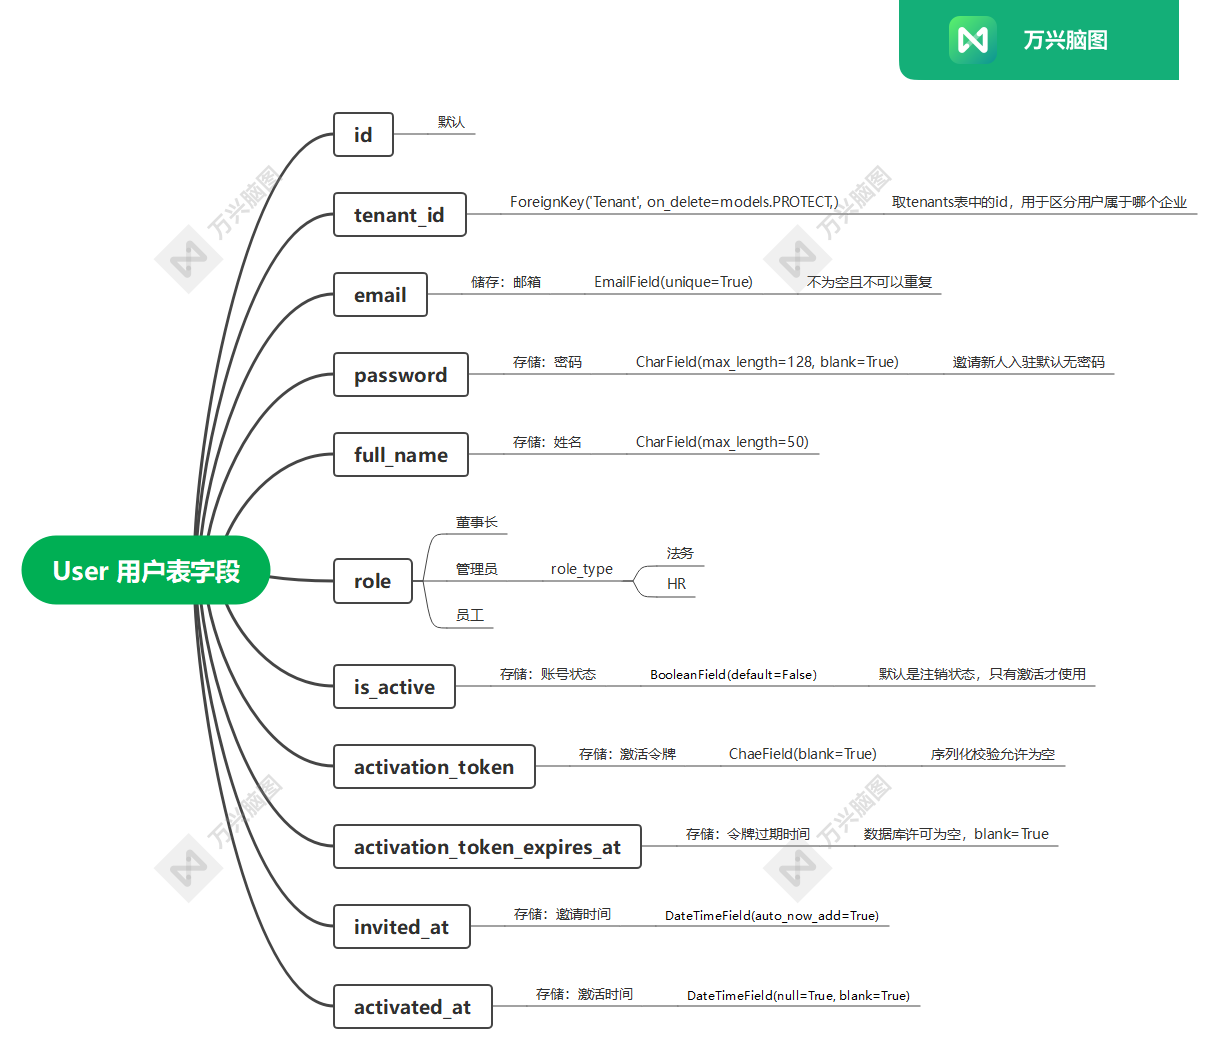
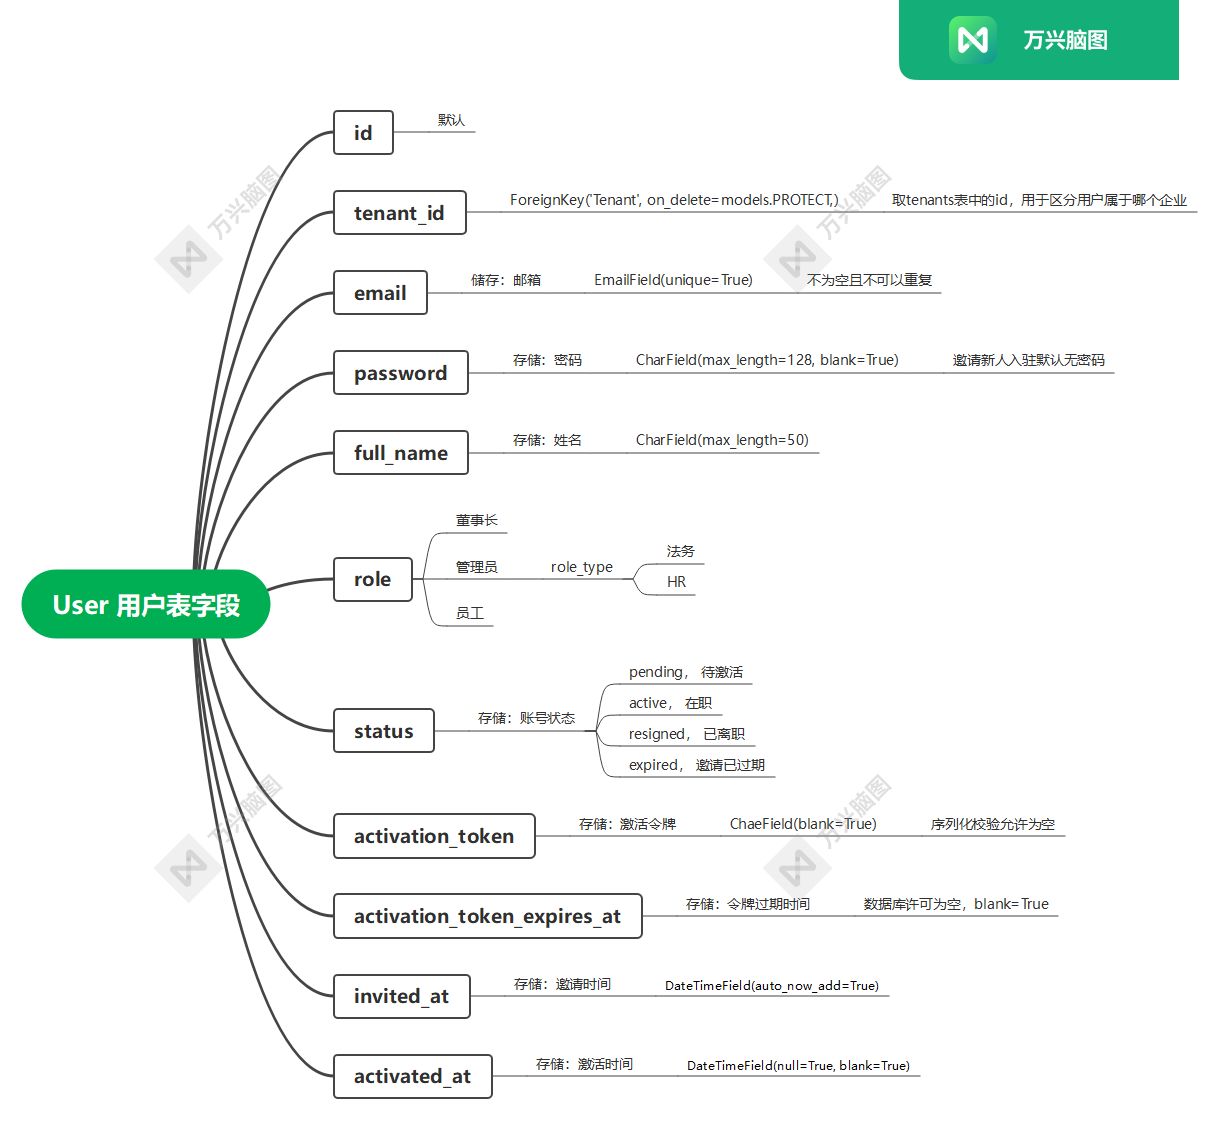
完成注册、登录、邀请接口，User模型状态字段重构

diff --git a/accounts/serializers.py b/accounts/serializers.py
@@ -1,9 +1,14 @@
 # 1. Python内置
 import re
+import secrets
+from datetime import timedelta
 # 2. Django
 from django.contrib.auth.hashers import make_password
 from django.contrib.auth.hashers import check_password
 from django.db import transaction
+from django.utils import timezone
+from django.core.mail import send_mail
+from django.conf import settings
 # 3. DRF
 from rest_framework import serializers
 # 4. 当前app自定义代码
@@ -55,7 +60,7 @@ class RegisterSerializer(serializers.Serializer):
                 full_name=validated_data['full_name'],
                 role='owner',        # 角色：董事
                 role_type='',        # 董事/员工为空
-                is_active=True,      # 注册即激活，不用邮件激活码激活
+                status='active',      # 注册即在职，不用邮件激活码激活
             )
 
             # 4. 注册成功后，删掉 Redis 里的验证码
@@ -81,14 +86,78 @@ class LoginSerializer(serializers.Serializer):
         if not check_password(password, user.password):
             raise serializers.ValidationError('邮箱或密码错误')
 
-        # 3. 校验账号是否可用
-        if not user.is_active:
-            raise serializers.ValidationError('该账号未激活或封禁，请联系公司管理人员')
+        # 3. 校验账号状态是否可用
+        if user.status == 'pending':
+            raise serializers.ValidationError('账号未激活，请查收邀请邮件')
+        if user.status == 'resigned':
+            raise serializers.ValidationError('账号已离职或被禁用')
+        if user.status == 'expired':
+            raise serializers.ValidationError('邀请已过期，请联系管理员重新邀请')
 
-        # 4. 校验租户是否被封禁
-        if user.tenant and not user.tenant.is_active:
-            raise serializers.ValidationError('所属公司已被停用，请联系平台方')
-
-        # 5. 把内存里user对象，放进attrs字典，方便视图取用
+        # 4. 把内存里user对象，放进attrs字典，方便视图取用
         attrs['user'] = user
         return attrs
+
+# 董事邀请员工、HR、法务 序列化器
+class InviteSerializer(serializers.Serializer):
+    email = serializers.EmailField(label='邮箱')
+    full_name = serializers.CharField(max_length=50, label='姓名')
+    role = serializers.ChoiceField(choices=['admin', 'member'], label='系统角色')
+    role_type = serializers.ChoiceField(choices=['hr', 'legal', ''], default='', required=False, label='管理员类型')
+
+    def validate(self, attrs):
+        request_user = self.context['request'].user
+
+        # 1. 权限校验：只有 owner 和 hr 能邀请
+        if request_user.role not in ['owner', 'hr']:
+            raise serializers.ValidationError('您没有权限邀请用户')
+
+        # 2. HR 只能邀请员工（member）
+        if request_user.role == 'admin' and request_user.role_type == 'hr':
+            if attrs['role'] != 'member':
+                raise serializers.ValidationError('HR 只能邀请员工')
+
+        # 3. 董事邀请HR或法务时，必须指定管理员类型
+        if attrs['role'] == 'admin' and attrs['role_type'] not in ['hr', 'legal']:
+            raise serializers.ValidationError('邀请管理员时必须指定 HR 或法务')
+
+        # 4. 董事邀请员工时，管理员类型必须为空
+        if attrs['role'] == 'member' and attrs['role_type'] != '':
+            raise serializers.ValidationError('邀请员工时 role_type 必须为空')
+
+        # 5. 邮箱不能重复
+        if User.objects.filter(email=attrs['email']).exists():
+            raise serializers.ValidationError('该邮箱已被注册')
+
+        return attrs
+
+    def create(self, validated_data):
+        request_user = self.context['request'].user
+
+        # 生成激活令牌，24 小时有效
+        token = secrets.token_urlsafe(32)
+
+        user = User.objects.create(
+            tenant=request_user.tenant,
+            email=validated_data['email'],
+            full_name=validated_data['full_name'],
+            password='',
+            role=validated_data['role'],
+            role_type=validated_data['role_type'],
+            status='pending',
+            activation_token=token,
+            activation_token_expires_at=timezone.now() + timedelta(hours=24),
+        )
+
+        # 发送邀请邮件
+        send_mail(
+            subject='【知识库系统】您已被邀请加入',
+            message=f'{request_user.full_name} 邀请您加入 {request_user.tenant.name}，'
+                    f'请点击链接激活账号并设置密码：\n'
+                    f'http://127.0.0.1:8000/api/accounts/activate/?token={token}',
+                    from_email=settings.DEFAULT_FROM_EMAIL,
+            recipient_list=[user.email],
+            fail_silently=False,
+        )
+
+        return user

diff --git a/accounts/models.py b/accounts/models.py
@@ -34,10 +34,19 @@ class User(models.Model):
     ('', '无'),
     ]
 
+    # status：账号状态
+    STATUS_CHOICES = [
+        ('pending', '待激活'),
+        ('active', '在职'),
+        ('resigned', '已离职'),
+    ]
+
     # tenant_id
     tenant = models.ForeignKey('Tenant', on_delete=models.PROTECT)
     # 邮箱
     email = models.EmailField(unique=True, verbose_name='邮箱')
+    # 原始邮箱
+    original_email = models.EmailField(blank=True, verbose_name='原始邮箱')
     # 密码
     password = models.CharField(max_length=128, blank=True, verbose_name='密码')
     # 姓名
@@ -48,7 +57,7 @@ class User(models.Model):
     role_type = models.CharField(max_length=20, choices=ROLE_TYPE_CHOICES, blank=True, default='', verbose_name='管理员类型')
     
     # 账号状态，默认不可用
-    is_active = models.BooleanField(default=False, verbose_name='是否启用')
+    status = models.CharField(max_length=20, choices=STATUS_CHOICES, default='pending', verbose_name='账号状态')
     # 激活令牌，只用一次
     activation_token = models.CharField(max_length=64, blank=True, verbose_name='激活令牌')
     # 令牌过期时间
@@ -59,6 +68,26 @@ class User(models.Model):
     invited_at = models.DateTimeField(auto_now_add=True, verbose_name='邀请时间')
     # 激活时间
     activated_at = models.DateTimeField(null=True, blank=True, verbose_name='激活时间')
+
+    # Django 认证系统需要的类属性
+    USERNAME_FIELD = 'email'
+    REQUIRED_FIELDS = []
+
+    
+    @property
+    def is_active(self):
+        return self.status == 'active'
+
+    @property
+    def is_anonymous(self):
+        return False
+
+    @property
+    def is_authenticated(self):
+        return True
+
+    def get_username(self):
+        return self.email
 
     class Meta:
         db_table = 'users'

diff --git a/accounts/views.py b/accounts/views.py
@@ -10,7 +10,7 @@ from rest_framework_simplejwt.tokens import RefreshToken
 # 4. 当前app自定义代码
 from .models import User
 from .utils import redis_client
-from .serializers import RegisterSerializer, LoginSerializer
+from .serializers import RegisterSerializer, LoginSerializer, InviteSerializer
 
 # 发送验证码接口视图
 @api_view(['POST'])
@@ -102,4 +102,22 @@ def login(request):
         }, status=200)
 
     # 校验失败，返回错误信息
+    return Response(serializer.errors, status=400)
+
+# 董事邀请员工、HR、法务 视图
+@api_view(['POST'])
+def invite(request):
+    serializer = InviteSerializer(data=request.data, context={'request': request})
+    if serializer.is_valid():
+        user = serializer.save()
+        return Response({
+            'message': '邀请已发送，请等待对方激活',
+            'user': {
+                'id': user.id,
+                'email': user.email,
+                'full_name': user.full_name,
+                'role': user.role,
+                'role_type': user.role_type,
+            }
+        }, status=201)
     return Response(serializer.errors, status=400)

diff --git a/accounts/migrations/0002_remove_user_is_active_user_original_email_and_more.py b/accounts/migrations/0002_remove_user_is_active_user_original_email_and_more.py
@@ -1,0 +1,27 @@
+# Generated by Django 5.2.17 on 2026-10-01 16:50
+
+from django.db import migrations, models
+
+
+class Migration(migrations.Migration):
+
+    dependencies = [
+        ('accounts', '0001_initial'),
+    ]
+
+    operations = [
+        migrations.RemoveField(
+            model_name='user',
+            name='is_active',
+        ),
+        migrations.AddField(
+            model_name='user',
+            name='original_email',
+            field=models.EmailField(blank=True, max_length=254, verbose_name='原始邮箱'),
+        ),
+        migrations.AddField(
+            model_name='user',
+            name='status',
+            field=models.CharField(choices=[('pending', '待激活'), ('active', '在职'), ('resigned', '已离职')], default='pending', max_length=20, verbose_name='账号状态'),
+        ),
+    ]

diff --git a/accounts/admin.py b/accounts/admin.py
@@ -9,8 +9,8 @@ class TenantAdmin(admin.ModelAdmin):
 @admin.register(User)
 class UserAdmin(admin.ModelAdmin):
     # 后台展示字段
-    list_display = ('id', 'email', 'full_name', 'role', 'role_type', 'tenant', 'is_active')
+    list_display = ('id', 'email', 'full_name', 'role', 'role_type', 'tenant', 'status')
     # 后台筛选字段
-    list_filter = ('role', 'role_type', 'is_active')
+    list_filter = ('role', 'role_type', 'status')
     # 后台可搜索字段
     search_fields = ('email', 'full_name')

diff --git a/accounts/urls.py b/accounts/urls.py
@@ -10,4 +10,6 @@ urlpatterns = [
     path('register/', views.register, name='register'),
     # 统一登录
     path('login/', views.login, name='login'),
+    # 董事邀请员工、HR、法务
+    path('invite/', views.invite, name='invite'),
 ]

diff --git a/kb_project/settings.py b/kb_project/settings.py
@@ -35,6 +35,9 @@ INSTALLED_APPS = [
     'chat',
 ]
 
+# 自定义的用户模型
+AUTH_USER_MODEL = 'accounts.User'
+
 # 中间件
 MIDDLEWARE = [
     'corsheaders.middleware.CorsMiddleware',                    # 前后端跨域请求
